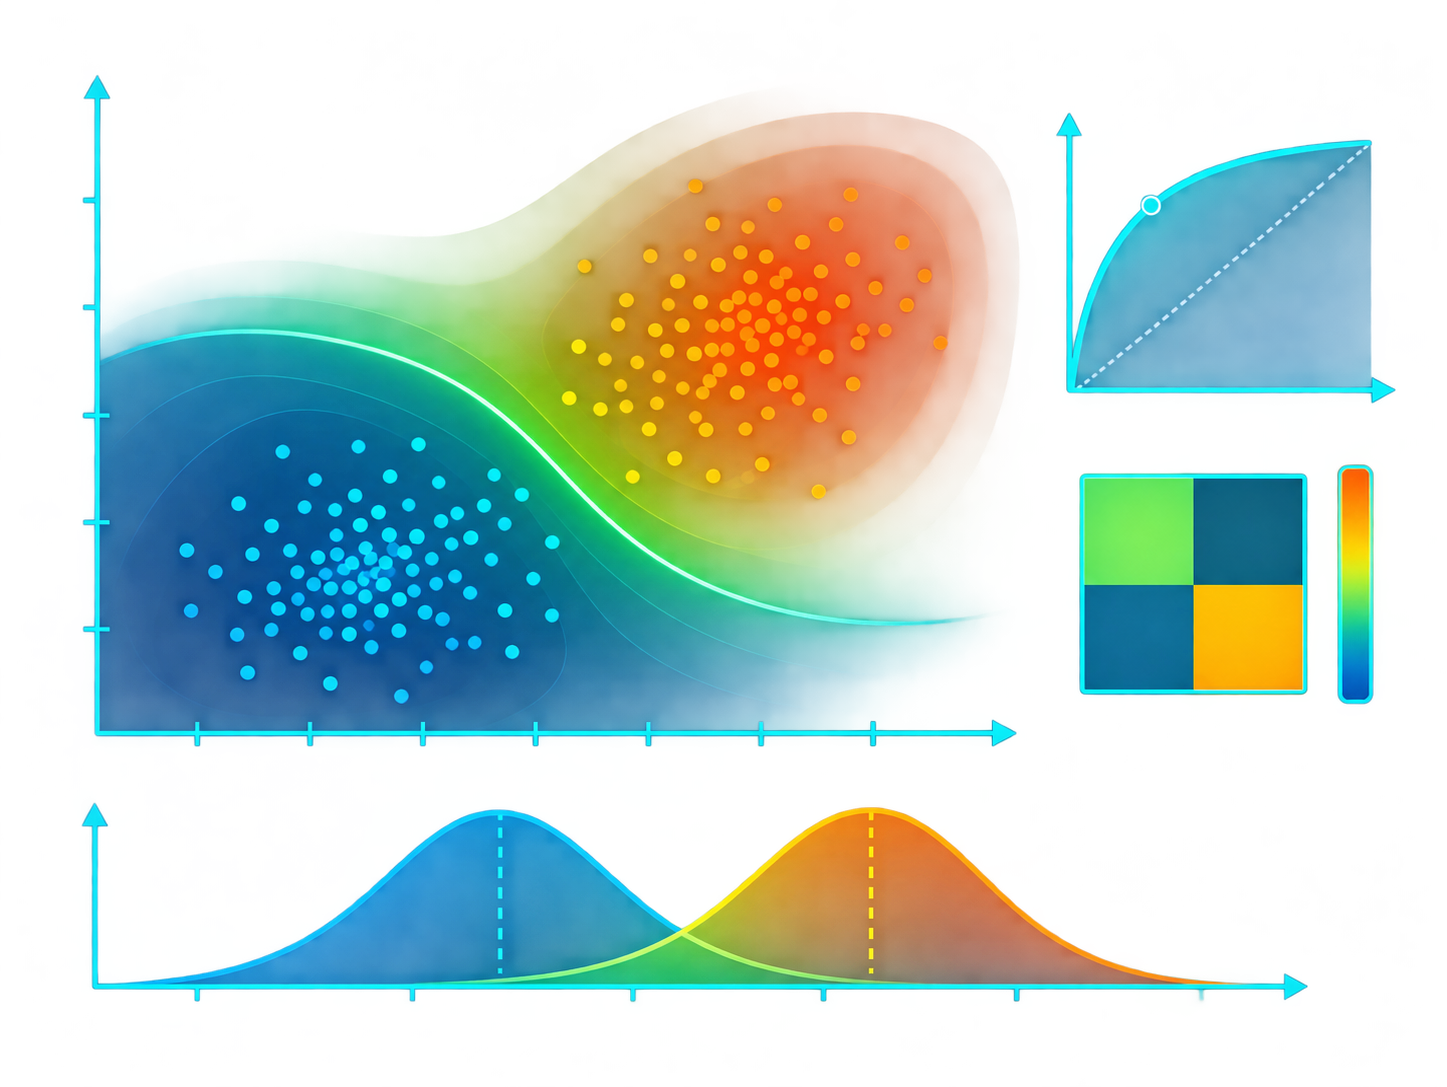
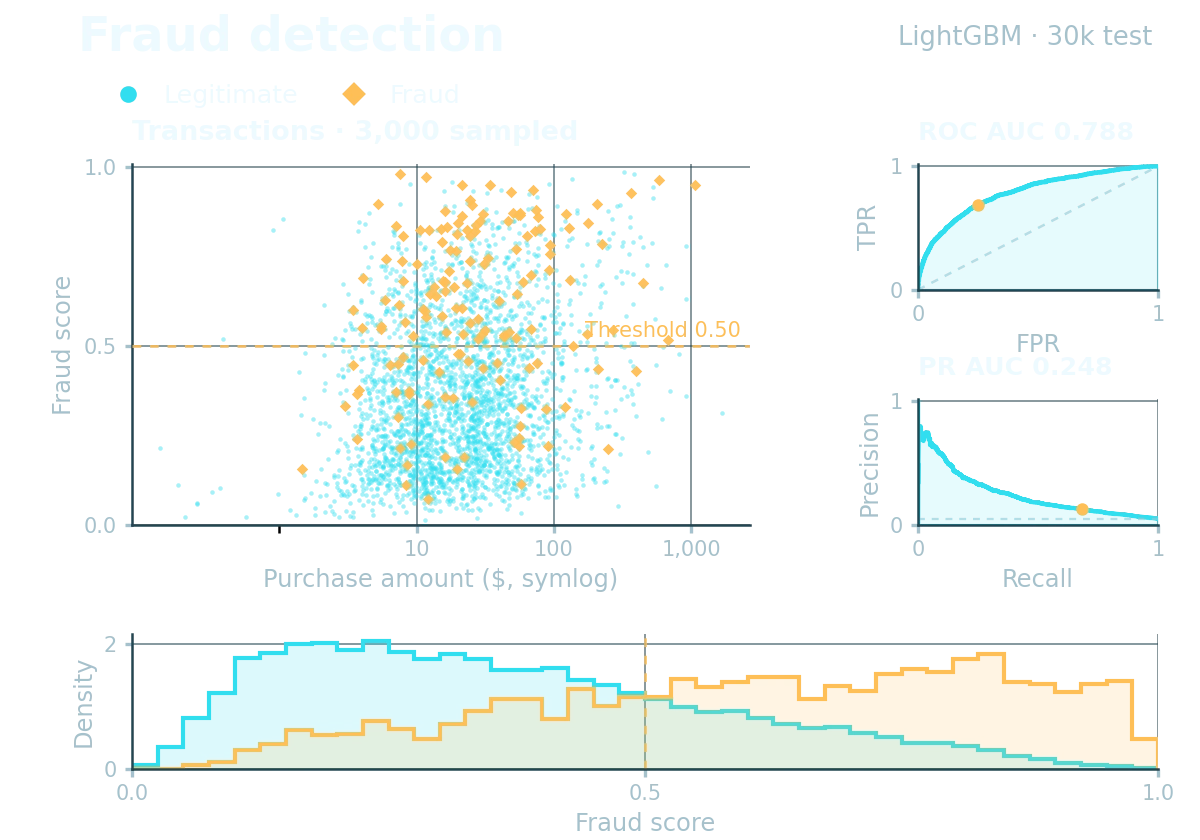
feat: update project images and dimensions for better display quality

diff --git a/src/portfolio/content.py b/src/portfolio/content.py
@@ -249,8 +249,8 @@ PROJECTS = (
         "responsibilities": None,
         "keywords": ("Python", "Scientific Computing", "Statistical Analysis", "Automation"),
         "image": "images/projects/nuflow-genomics.webp",
-        "image_width": 1536,
-        "image_height": 1024,
+        "image_width": 3072,
+        "image_height": 2048,
         "image_alt": "Conceptual genomics visualization combining cell clusters in a UMAP-style scatterplot, a gene-expression heatmap, and expression distributions.",
         "url": "https://github.com/LexC/NuFlow",
     },
@@ -263,9 +263,9 @@ PROJECTS = (
         "responsibilities": None,
         "keywords": ("Python", "PostgreSQL", "scikit-learn", "LightGBM"),
         "image": "images/projects/fraud-classifier-boundary.webp",
-        "image_width": 1447,
-        "image_height": 1087,
-        "image_alt": "Conceptual machine-learning visualization with two classification groups, a nonlinear decision boundary, and confidence regions.",
+        "image_width": 1200,
+        "image_height": 840,
+        "image_alt": "Conceptual fraud-classification dashboard comparing fraud and normal cases in a scatterplot, histograms, and model evaluation charts.",
         "url": "https://github.com/LexC/Fraud_Classifier",
     },
 )
